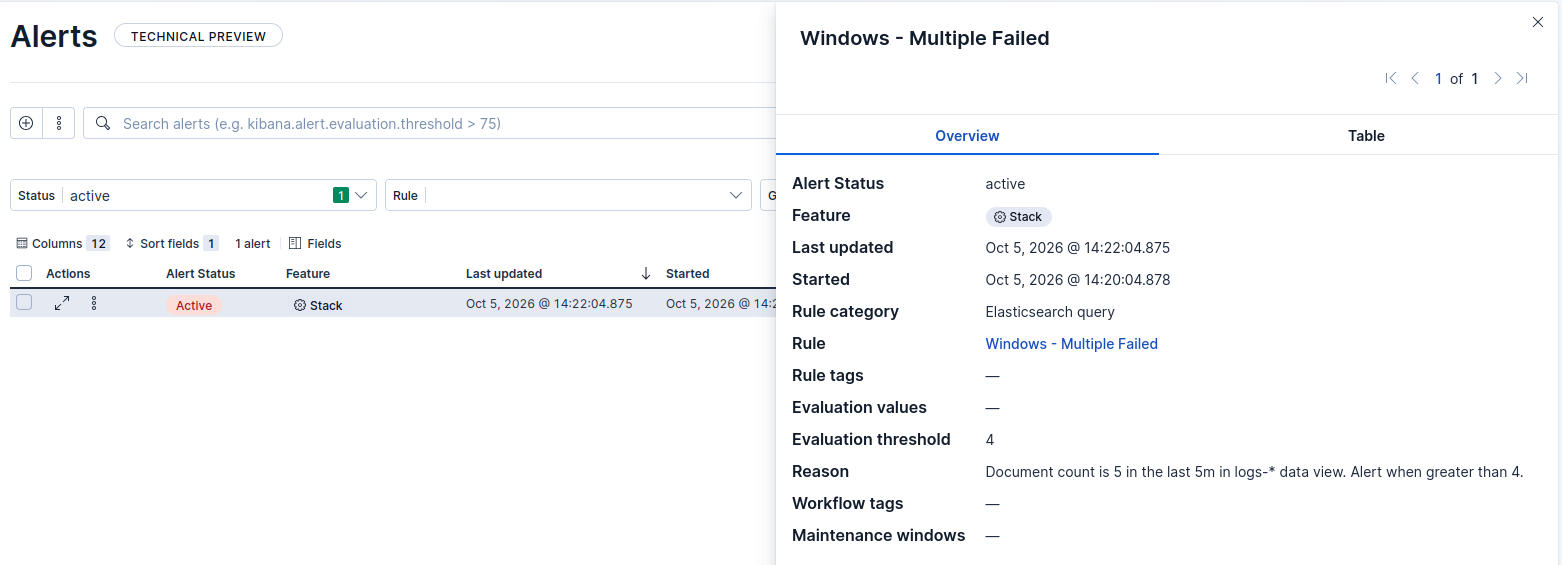
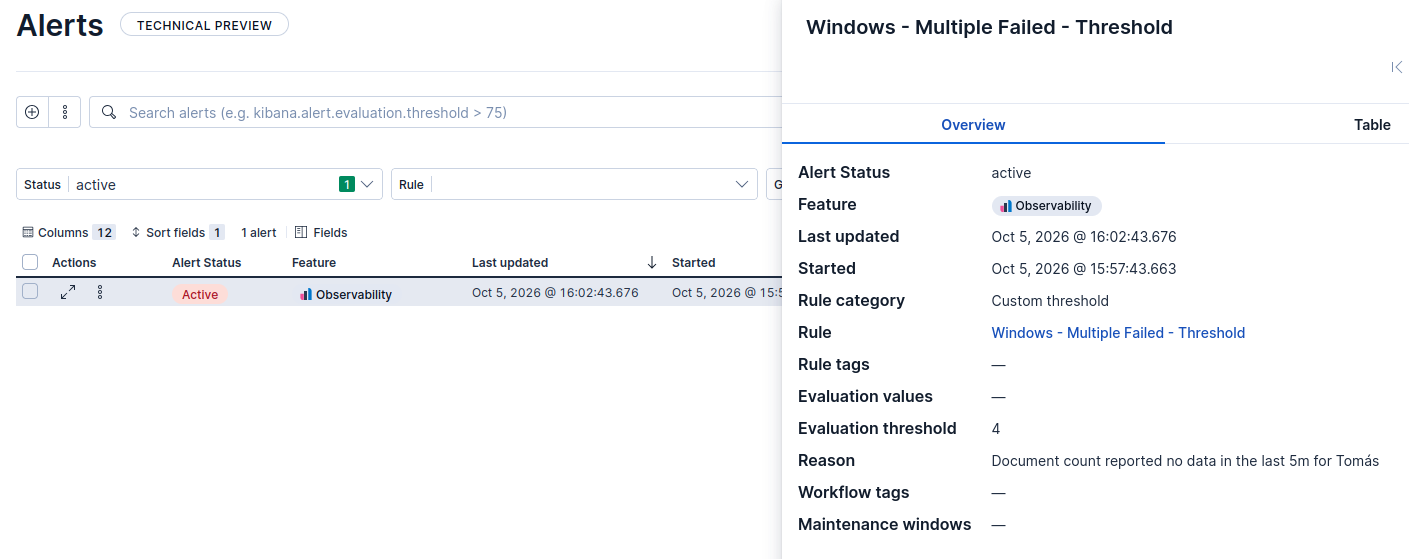
corrections

diff --git a/docs/detections/windows-multiple-failed-logons.md b/docs/detections/windows-multiple-failed-logons.md
@@ -1,0 +1,218 @@
+# Windows — Multiple Failed Logons
+
+## 1. Objective
+
+Detect repeated failed authentication attempts on a Windows endpoint that may indicate brute-force or password-guessing activity.
+
+The detection is based on Windows Security **Event ID 4625**, generated when a logon attempt fails.
+
+---
+
+## 2. Data Source
+
+### Windows Security Event Log
+
+The detection uses the Windows **Security** Event Log collected by Elastic Agent.
+
+The required Windows audit policies were configured to generate authentication-related telemetry.
+
+Relevant audit policies include:
+
+* Account Logon → Credential Validation
+* Logon/Logoff → Logon → Success + Failure
+* Logon/Logoff → Logoff → Success
+* Account Lockout → Failure
+
+The events are ingested into the:
+
+```text
+windows.security
+```
+
+dataset.
+
+---
+
+## 3. Detection Logic
+
+The detection was implemented in Kibana using a **Custom threshold** rule.
+
+### KQL
+
+```kql
+event.code: "4625"
+```
+
+### Rule Configuration
+
+| Setting        | Value                              |
+| -------------- | ---------------------------------- |
+| Data view      | `logs-*`                           |
+| Query          | `event.code: "4625"`               |
+| Condition      | Count above 4                      |
+| Time window    | 5 minutes                          |
+| Group alerts   | `winlog.event_data.TargetUserName` |
+| Check interval | 1 minute                           |
+| Rule name      | `Windows - Multiple Failed`        |
+
+The rule generates an alert when **5 or more Event ID 4625 events** are observed for the same account within a 5-minute window.
+
+The threshold is configured as **above 4**, meaning that 5 events are required to trigger the alert.
+
+---
+
+## 4. MITRE ATT&CK Mapping
+
+### T1110 — Brute Force
+
+The detection is mapped to **MITRE ATT&CK T1110 — Brute Force**.
+
+Repeated failed authentication attempts can indicate password guessing or brute-force activity.
+
+However, the detection does **not** confirm that a brute-force attack occurred. Legitimate scenarios, such as repeated incorrect passwords or applications using outdated credentials, can also generate multiple 4625 events.
+
+The MITRE mapping therefore represents the **behavior being detected**, rather than confirmed malicious activity.
+
+---
+
+## 5. Attack Simulation
+
+To validate the detection, controlled failed authentication attempts were generated against the Windows 10 lab VM.
+
+Five incorrect authentication attempts were performed within a five-minute period, generating multiple Windows Security Event ID 4625 events.
+
+Expected event:
+
+```text
+Event ID: 4625
+```
+
+The generated events satisfied the detection condition:
+
+```text
+5 events > 4
+within 5 minutes
+```
+
+---
+
+## 6. Detection Validation
+
+The generated 4625 events were successfully ingested into Elasticsearch and detected by the Kibana rule.
+
+The rule generated an alert confirming that the threshold condition was met.
+
+This validated the complete detection pipeline:
+
+1. Windows generated Event ID 4625.
+2. Elastic Agent collected the event.
+3. The event was indexed into Elasticsearch.
+4. The Kibana rule identified the event.
+5. The threshold condition was met.
+6. An alert was generated.
+
+### Alert Evidence
+
+![Multiple Failed Logons Alert](../../images/alert_Windows_Multiple_Failed.png)
+
+---
+
+## 7. Investigation
+
+The individual 4625 events should be investigated to determine whether the activity is expected or suspicious.
+
+Relevant fields include:
+
+| Field                               | Purpose                                        |
+| ----------------------------------- | ---------------------------------------------- |
+| `event.code`                        | Windows event identifier                       |
+| `host.name`                         | Windows endpoint                               |
+| `host.ip`                           | IP address associated with the endpoint        |
+| `winlog.event_data.TargetUserName`  | Account involved in the authentication attempt |
+| `winlog.event_data.IpAddress`       | Source address reported by Windows             |
+| `winlog.event_data.LogonType`       | Type of logon attempt                          |
+| `winlog.event_data.WorkstationName` | Workstation associated with the event          |
+
+### Example Investigation
+
+For the lab-generated events:
+
+```text
+event.code: 4625
+winlog.event_data.TargetUserName: Tomás
+winlog.event_data.IpAddress: 127.0.0.1
+winlog.event_data.LogonType: 2
+```
+
+Windows reported `127.0.0.1` as the source address, indicating that the test was associated with a local authentication attempt.
+
+`LogonType 2` corresponds to an **interactive logon**, which is consistent with the manual authentication test performed during the simulation.
+
+This demonstrates why an alert should not immediately be considered a confirmed brute-force attack. The surrounding event context must be investigated before determining whether the activity is malicious.
+
+The following screenshot shows the Windows Security events ingested into Elastic and the fields used during the investigation.
+
+![Elastic Logs](../../images/Elastic_Logs_4625.png)
+
+---
+
+## 8. False Positives
+
+Multiple failed logons can occur for legitimate reasons, including:
+
+* Users repeatedly entering an incorrect password
+* Forgotten or recently changed passwords
+* Applications using outdated credentials
+* Scheduled tasks or services using invalid credentials
+* Administrative troubleshooting
+
+The detection should therefore be treated as a **suspicious authentication signal**, rather than a confirmed attack.
+
+---
+
+## 9. Response Considerations
+
+If triggered in a production environment, the alert should be investigated before taking containment actions.
+
+The investigation should include:
+
+1. Identify the affected account.
+2. Identify the reported source IP or workstation.
+3. Review the logon type and surrounding events.
+4. Check for successful authentication following the failed attempts.
+5. Determine whether the activity is expected or suspicious.
+6. Investigate additional endpoint or network activity if required.
+
+---
+
+## 10. Limitations
+
+* The rule does not currently correlate failed and successful authentication events.
+* Legitimate activity can generate multiple failed logons.
+* The threshold has not been tuned for a production environment.
+* The detection was validated in a controlled Windows 10 lab environment.
+
+---
+
+## 11. Status
+
+**Status:** Validated
+
+The detection was successfully tested end-to-end:
+
+```text
+Windows failed authentication
+        ↓
+Event ID 4625
+        ↓
+Elastic Agent
+        ↓
+Elasticsearch
+        ↓
+Kibana Detection Rule
+        ↓
+5 events within 5 minutes
+        ↓
+Alert
+```
+

diff --git a/README.md b/README.md
@@ -454,22 +454,7 @@ Kibana Discover showing **windows.security** events:
 
 
 
-## Step 7 — Log Ingestion & Normalization
-
-* Verify events arriving in Elasticsearch
-* Explore events in Kibana Discover
-* Validate ECS fields
-* Investigate fields such as:
-
-  * `host.name`
-  * `agent.name`
-  * `event.code`
-  * `process.name`
-  * `process.command_line`
-  * `source.ip`
-  * `destination.ip`
-
-## Step 8 — Detection Engineering
+## Step 7 — Detection Engineering
 
 Detections are developed through a repeatable detection engineering workflow.
 
@@ -511,30 +496,19 @@ The **Multiple Failed Logons** detection is used as the first example of the com
 
 The detection uses Windows Security Event ID `4625`, generated when a Windows logon attempt fails.
 
-The KQL query used for the detection is:
+The detection uses the following KQL query and threshold configuration:
 
-```kql
-event.code: "4625"
-```
+![Rule definition](images/rule_definition.png)
 
-The rule was configured as an **Elasticsearch query** rule using the `logs-*` data view.
+Therefore, the rule generates an alert when **5 or more failed logon events** are observed within a five-minute window on a single account.
 
-Detection threshold:
-
-```text
-More than 4 events
-Within 5 minutes
-```
-
-Therefore, the rule generates an alert when **5 or more failed logon events** are observed within a five-minute window.
-
-The detection is mapped to **MITRE ATT&CK T1110 — Brute Force**, as repeated failed authentication attempts may indicate brute-force activity. The detection itself does not prove that a brute-force attack was successful.
+The detection is mapped to **MITRE ATT&CK T1110 — Brute Force**, as repeated failed authentication attempts may indicate brute-force activity. The detection itself does not confirm that a brute-force attack occurred.
 
 The complete implementation and investigation details are documented in the corresponding [Detection Playbook](docs/detections/windows-multiple-failed-logons.md).
 
 ---
 
-## Step 9 — Attack Simulation
+## Step 8 — Attack Simulation
 
 Controlled simulations are performed to generate telemetry representing different adversary behaviors.
 
@@ -553,7 +527,7 @@ The first completed simulation involved repeated failed authentication attempts 
 
 ---
 
-## Step 10 — Detection Validation
+## Step 9 — Detection Validation
 
 Each detection is validated by following the complete telemetry-to-alert pipeline:
 
@@ -583,7 +557,7 @@ Document count is 5 in the last 5m in logs-* data view.
 Alert when greater than 4.
 ```
 
-![Alert Windows Failed Logons](images/alert_Window_Multiple_Failed.png)
+![Alert Windows Failed Logons](images/alert_Windows _Multiple_Failed.png)
 
 This confirmed that the simulated behavior generated the expected Windows telemetry and successfully triggered the detection.
 
@@ -591,7 +565,7 @@ The screenshot above is provided as an **example of the validation process**. De
 
 ---
 
-## Step 11 — Investigation & Response
+## Step 10 — Investigation & Response
 
 Generated alerts are investigated in Kibana to determine the context and potential significance of the detected behavior.
 
@@ -600,28 +574,13 @@ Investigation activities may include:
 * Reviewing the underlying telemetry
 * Identifying the affected host
 * Identifying the targeted account
-* Identifying the source of the activity
+* Identifying the reported source
 * Correlating related events
 * Checking for successful authentication following failed attempts
 * Identifying activity against other accounts
 * Determining whether the behavior is expected or suspicious
-* Mapping the observed behavior to MITRE ATT&CK
 
-Relevant Windows Security fields may include:
-
-```text
-event.code
-event.action
-event.outcome
-host.name
-host.ip
-winlog.event_data.TargetUserName
-winlog.event_data.IpAddress
-winlog.event_data.LogonType
-winlog.event_data.WorkstationName
-```
-
-Response actions are determined according to the investigation results and may include:
+Potential response actions, depending on the investigation results and organizational procedures, may include:
 
 * Blocking or containing the source
 * Disabling or locking an affected account
@@ -631,9 +590,14 @@ Response actions are determined according to the investigation results and may i
 
 Detailed investigation and response procedures are documented within each detection playbook.
 
+The following screenshot shows the Windows Security events ingested into Elastic and the fields used during the investigation.
+
+![Elastic Logs](images/Elastic_Logs_4625.png)
+
+
 ---
 
-## Step 12 — Documentation
+## Step 11 — Documentation
 
 Each detection is documented in a dedicated **Detection Playbook**.
 
